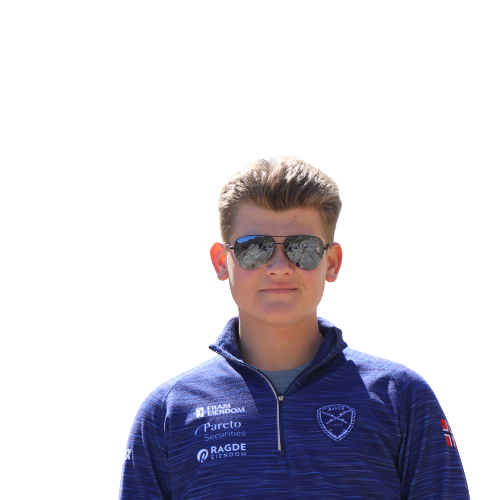
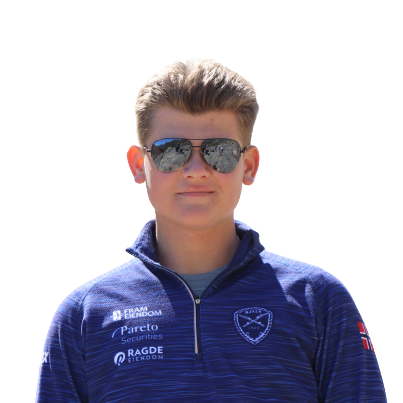
bildefiks

diff --git a/Index.html b/Index.html
@@ -83,7 +83,7 @@
         <div class="column"> 
             <div class="card">
                 <div class="img-container">
-                    <img src="Images/test.jpg" />
+                    <img src="./images/Herman_siluett.png"/>
                 </div>
                 <h3>Herman K. Erlingsen</h3>
                 <p>Assistant Project Manager<br>Developer</p>
